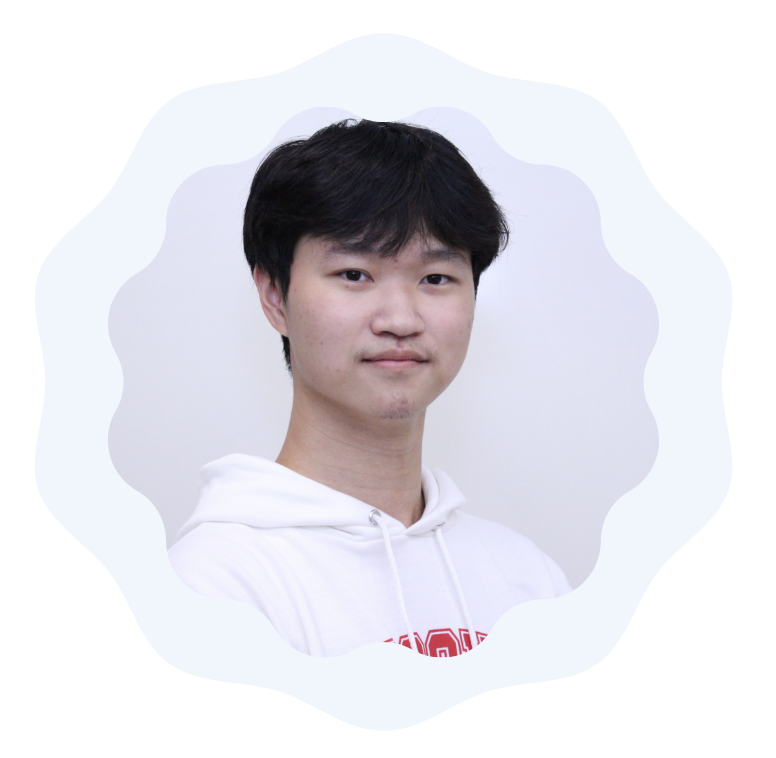
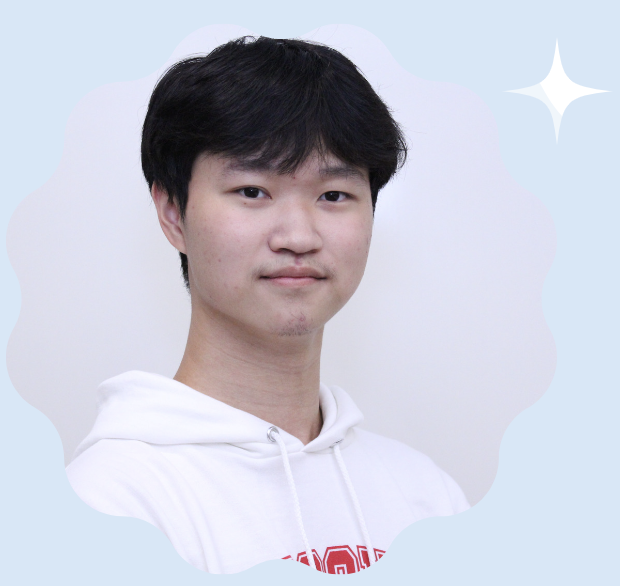
adding skill content

diff --git a/index.html b/index.html
@@ -38,7 +38,7 @@
           <div class="collapse navbar-collapse" id="navbarNavDropdown">
             <ul class="navbar-nav ms-auto">
               <li class="nav-item">
-                <a class="nav-link" href="#">About me</a>
+                <a class="nav-link" href="#about-me">About me</a>
               </li>
               <li class="nav-item">
                 <a class="nav-link" href="#">Skill</a>
@@ -97,7 +97,7 @@
 
         <p>Hi! I am Zejun Zhou, a junior currently pursuing a 
           Bachelor of Science degree in Computer Science and Data Science 
-          at The University of Wisconsin-Madison</p>
+          at The University of Wisconsin-Madison.</p>
 
         <p>I am currently interested in both internship and full-time opportunities working with 
           Software Engineering, Web Development, Database Management and Data Analytics.
@@ -106,23 +106,52 @@
 
         <p>Outside work, I like to swim, play the piano and have fun with video games.
           I am also a lover of martial arts novels. <em>Demi-Gods and Semi-Devils</em> by Jin Yong is
-          my favorite reading
+          my favorite reading.
         </p>
       </div>
 
       <!--adding img for about me-->
       <div class="col-lg-6">
-        <img src="images/about-me.png">
+        <img class="aboutImg" src="images/about-me.png">
       </div>
     </div>
 
   </section>
 
-  
-
-
   <!--Skill section-->
   <section id="Skill">
+    <h1>My Skills</h1>
+
+    <div class="skill-container">
+      <div class="row">
+
+        <div class="col-lg-6 skill-item">
+          <p>Software Development<i class="fa-sharp fa-solid fa-circle-arrow-right"></i></p>
+        </div>
+
+        <div class="col-lg-6 skill-item">
+          <p>Web Design<i class="fa-sharp fa-solid fa-circle-arrow-right"></i></p>
+        </div>
+
+        <div class="col-lg-6 skill-item">
+          <p>Database Management<i class="fa-sharp fa-solid fa-circle-arrow-right"></i></p>
+        </div>
+
+        <div class="col-lg-6 skill-item">
+          <p>Data Visualization<i class="fa-sharp fa-solid fa-circle-arrow-right"></i></p>
+        </div>
+
+        <div class="col-lg-6 skill-item">
+          <p>Machine Organization<i class="fa-sharp fa-solid fa-circle-arrow-right"></i></p>
+        </div>
+
+        <div class="col-lg-6 skill-item">
+          <p>Version Control<i class="fa-sharp fa-solid fa-circle-arrow-right"></i></p>
+        </div>
+
+      </div>
+
+    </div>
 
   </section>
 

diff --git a/styles.css b/styles.css
@@ -76,11 +76,65 @@ body{
 }
 
 /********About Me Section****/
+#about-me{
+    background-color: #d6e7f7;
+    color:#004b84;
+    padding: 8% 10%;
+}
 
+#about-me h1{
+    font-weight: 700;
+    padding-bottom: 12%;
+}
+
+#about-me p{
+    line-height: 2;
+}
 
 
 /*******About Me Class******/
 
+#about-me .aboutImg{
+    width: 95%;
+    margin-left: 10%;
+    margin-top: 10%;
+}
+
+@media(max-width:1000px){
+    #about-me .aboutImg{
+        width: 100%;
+        margin: auto;
+    }
+
+    #about-me{
+        text-align: center;
+    }
+
+
+}
 
 /***************************
+
+/*******Skill Section*****/
+
+#Skill{
+    background-color:#004b84;
+    padding: 8% 10%;
+    color: aliceblue;
+}
+
+
+/********Skill Class*****/
+#Skill h1{
+    font-weight: 700;
+    text-align: center;
+}
+
+.skill-container{
+    margin-top: 15%;
+}
+
+.skill-item{
+    text-align: left;
+}
 
